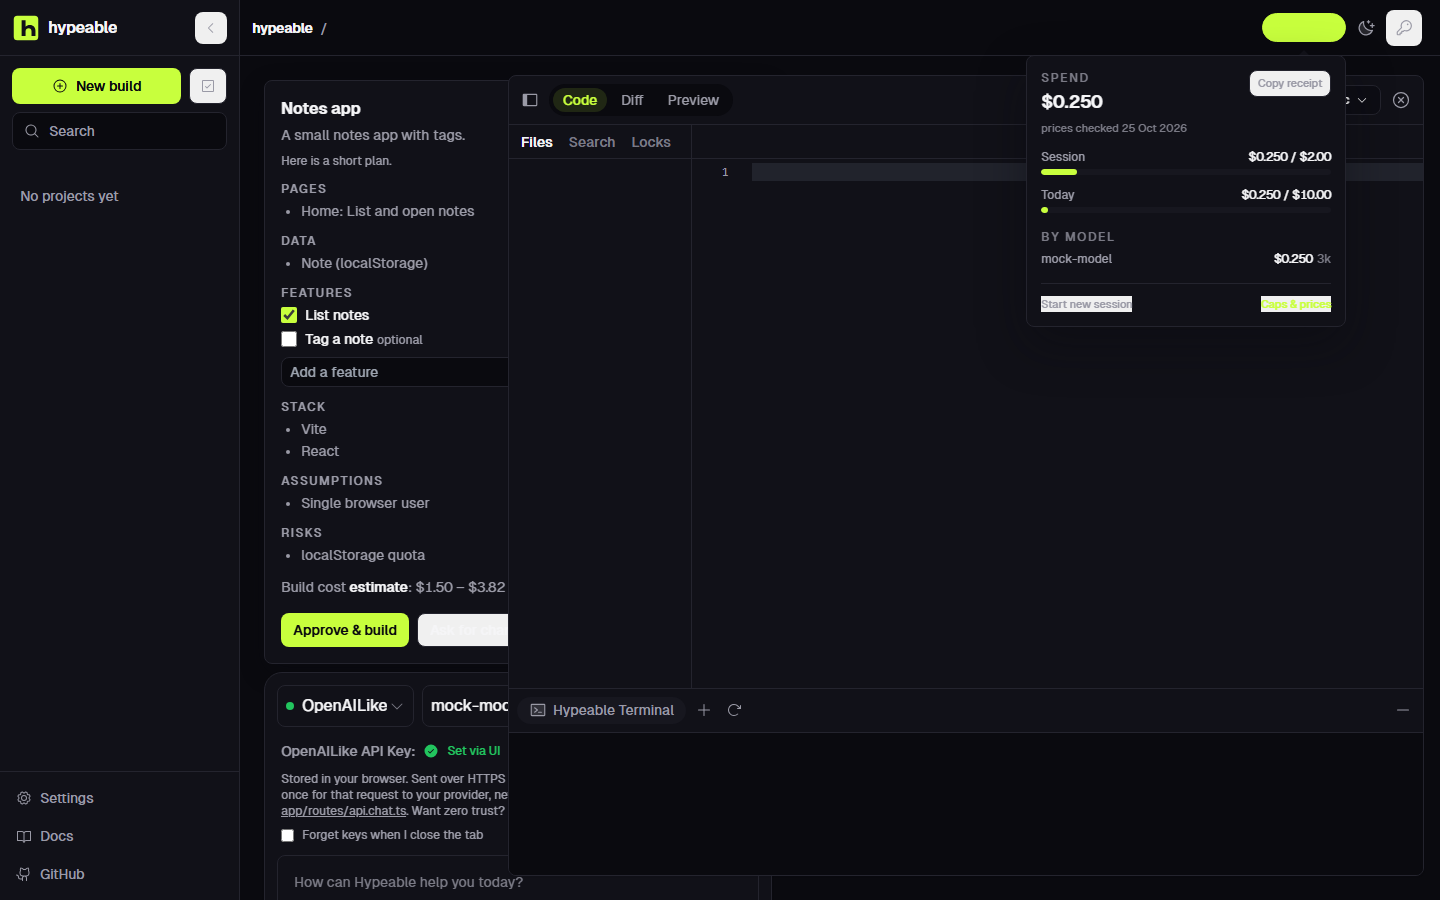
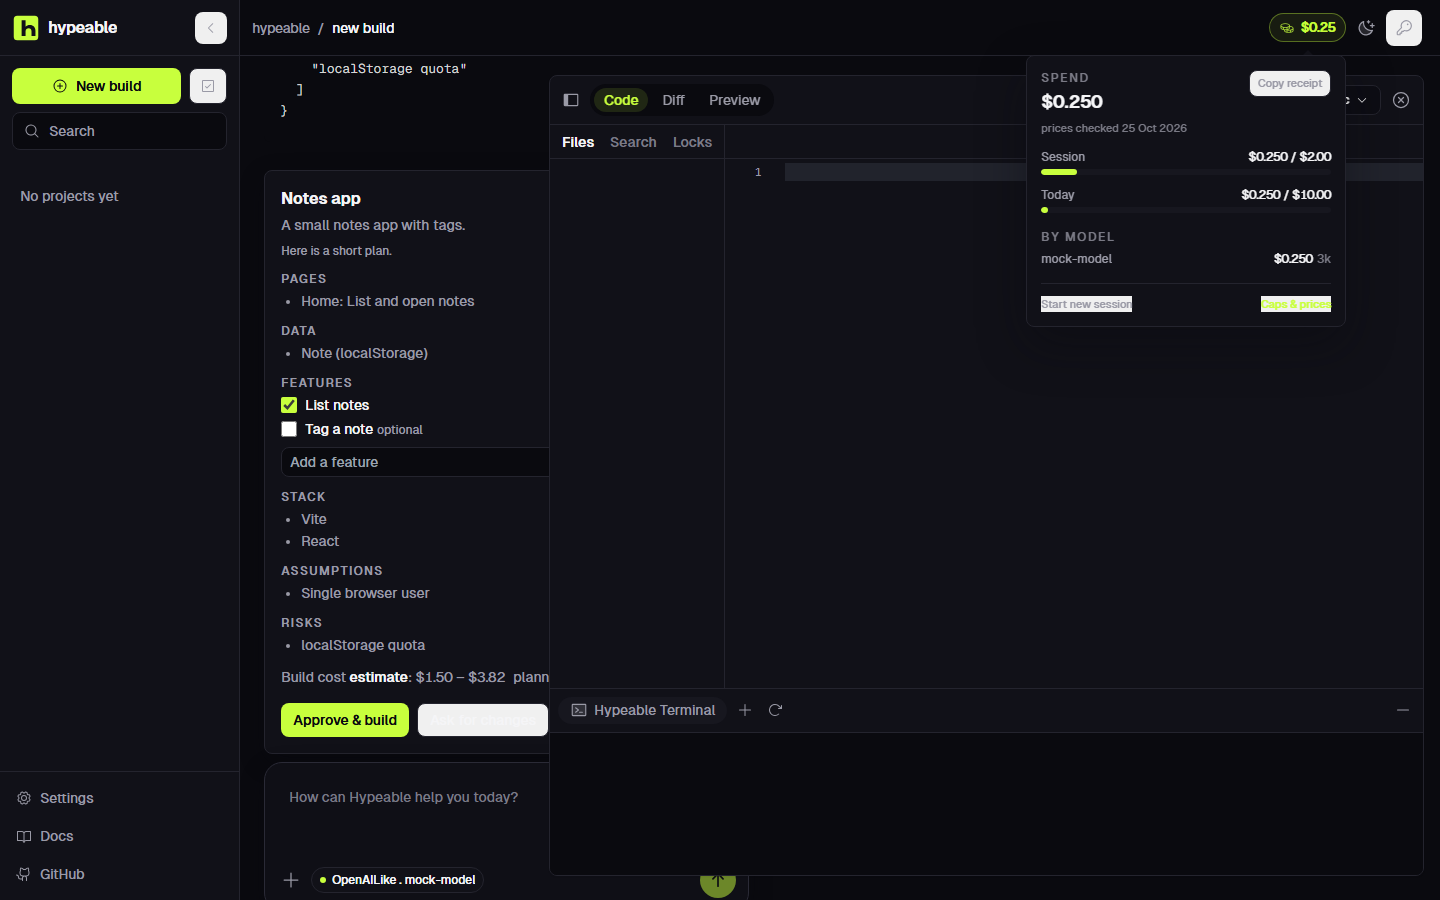
docs(assets): refresh home screenshots
The previous shots still showed a blank cost pill and a heading-band aurora. These captures match the decluttered empty home.

diff --git a/README.md b/README.md
@@ -4,7 +4,7 @@
 
 ![Hypeable home, light](docs/assets/home-light-1440.png)
 
-**Worth the hype.** A free, open-source AI app builder. Describe an app, watch it get built, publish it to your own Vercel or GitHub.
+**Worth the hype.** A free, open-source AI app builder. Describe an app, watch it get built, publish it to your own Vercel or GitHub. The empty home is a heading, one composer, four starters, and a live cost pill — model, key, and extra actions stay one click away.
 
 > Not affiliated with Lovable, Bolt, or StackBlitz. Built on [bolt.diy](https://github.com/stackblitz-labs/bolt.diy) (MIT).
 

diff --git a/docs/TESTING.md b/docs/TESTING.md
@@ -38,7 +38,7 @@ The key lives in `localStorage` (`hypeable_api_keys`) and is sent only on LLM ro
 
 ## Playwright smoke (`pnpm e2e`)
 
-Docs screenshots (skipped unless `CAPTURE_DOCS=1`): `docs/assets/home-*.png`, plan card, loop panel, cost popover.
+Docs screenshots (skipped unless `CAPTURE_DOCS=1`): `docs/assets/home-*.png`, plan card, loop panel, cost popover. Presentation checks in `e2e/home-presentation.spec.ts` assert cost-pill contrast and that the empty-home aurora covers the main column.
 
 ```bash
 pnpm exec playwright install chromium
